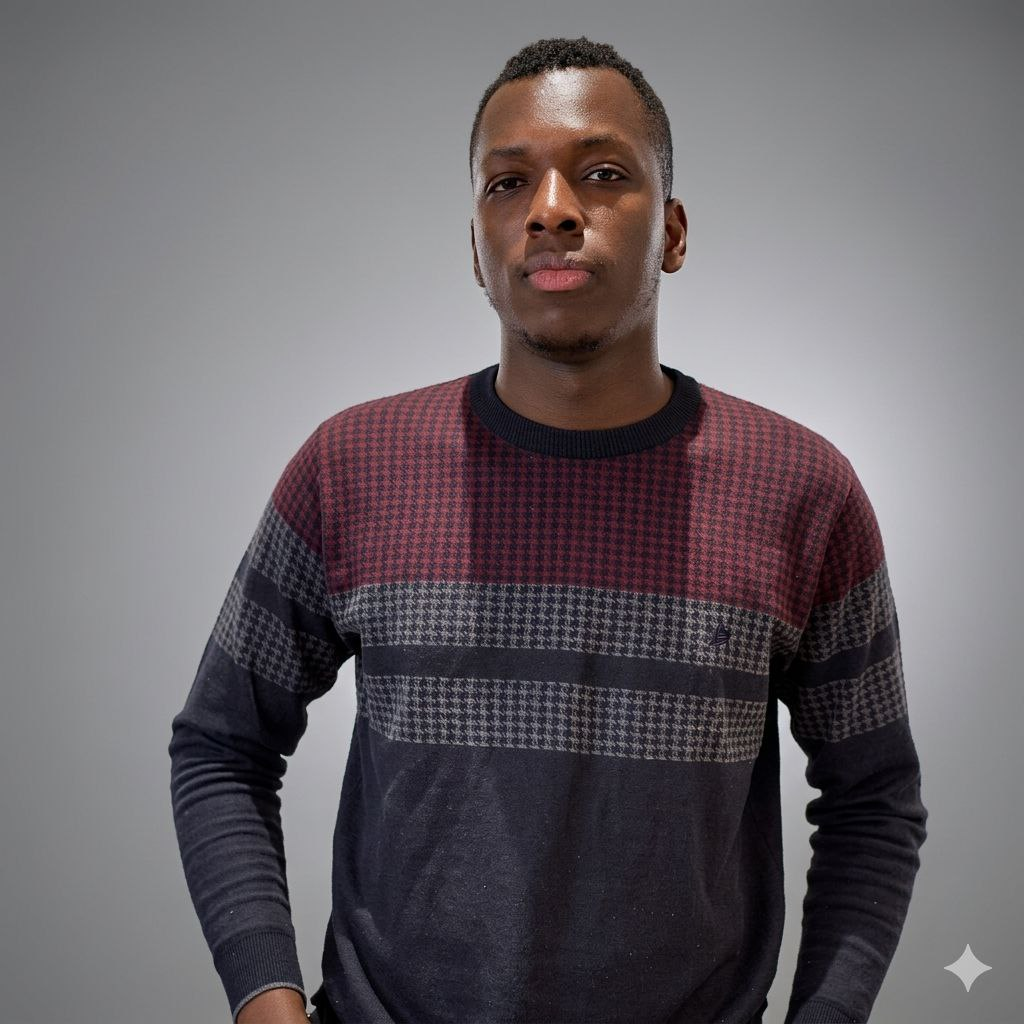
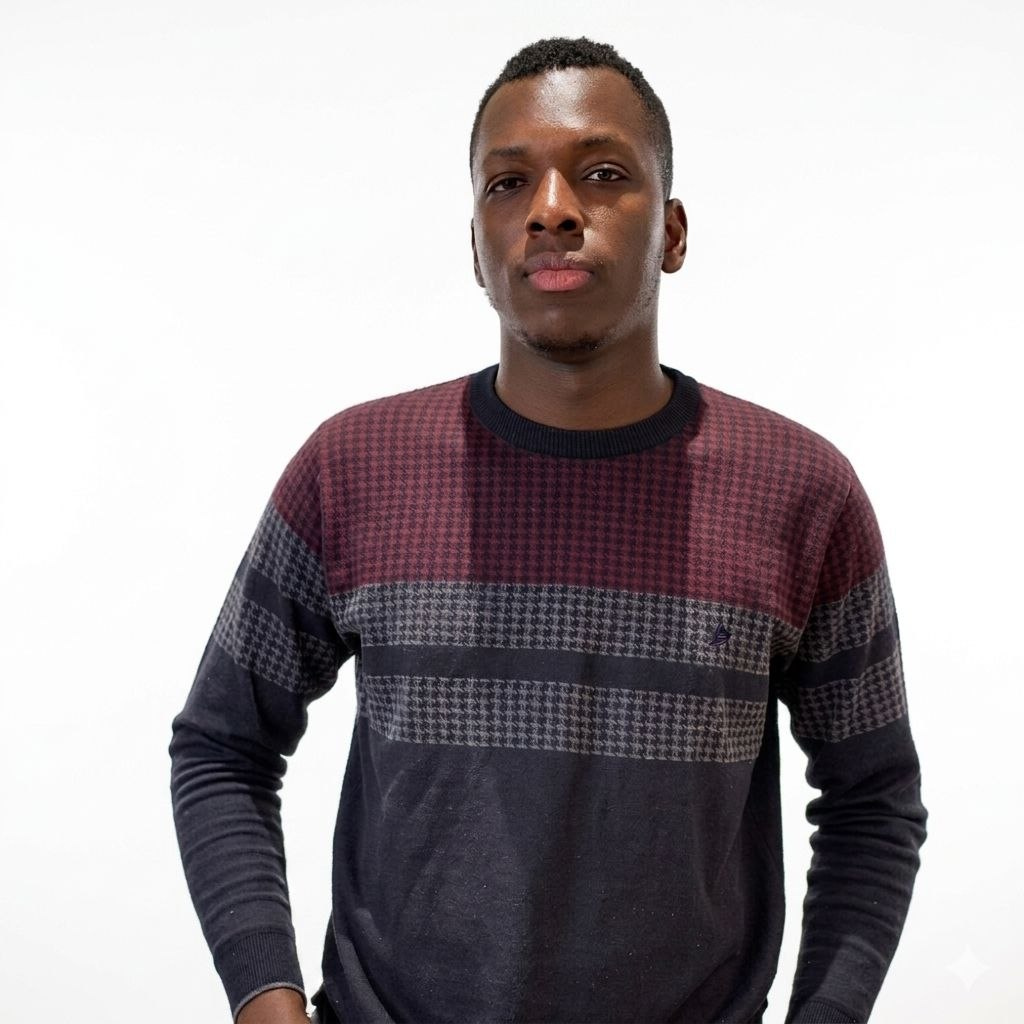
Update Hero: manifesto layout, scramble text, new photo, remove spinning circle

diff --git a/components/sections/Hero.tsx b/components/sections/Hero.tsx
@@ -2,6 +2,81 @@
 
 import { motion } from "framer-motion";
 import Image from "next/image";
+import { useEffect, useRef, useState } from "react";
+
+/* ─── Scramble Text ─── */
+const CHARS = "ABCDEFGHIJKLMNOPQRSTUVWXYZ0123456789@#$%&";
+
+function ScrambleText({
+  text,
+  delay = 0,
+  className = "",
+  style = {},
+}: {
+  text: string;
+  delay?: number;
+  className?: string;
+  style?: React.CSSProperties;
+}) {
+  const [display, setDisplay] = useState(() => text.split("").map(() => " "));
+  const resolvedRef = useRef(0);
+  const frameRef = useRef<ReturnType<typeof setTimeout> | null>(null);
+
+  useEffect(() => {
+    let started = false;
+    const startTimeout = setTimeout(() => {
+      started = true;
+      let tick = 0;
+      const totalChars = text.length;
+      const ticksPerChar = 6;
+
+      const run = () => {
+        tick++;
+        const resolved = Math.floor(tick / ticksPerChar);
+        resolvedRef.current = resolved;
+
+        setDisplay(
+          text.split("").map((char, i) => {
+            if (char === " ") return " ";
+            if (i < resolved) return char;
+            return CHARS[Math.floor(Math.random() * CHARS.length)];
+          })
+        );
+
+        if (resolved < totalChars) {
+          frameRef.current = setTimeout(run, 40);
+        } else {
+          setDisplay(text.split(""));
+        }
+      };
+
+      run();
+    }, delay * 1000);
+
+    return () => {
+      clearTimeout(startTimeout);
+      if (frameRef.current) clearTimeout(frameRef.current);
+    };
+  }, [text, delay]);
+
+  return (
+    <span className={className} style={style}>
+      {display.map((char, i) => (
+        <span
+          key={i}
+          style={{
+            display: "inline-block",
+            whiteSpace: char === " " ? "pre" : "normal",
+            color: i < resolvedRef.current ? undefined : "rgba(26,26,26,0.35)",
+            transition: "color 0.1s",
+          }}
+        >
+          {char === " " ? "\u00A0" : char}
+        </span>
+      ))}
+    </span>
+  );
+}
 
 /* ─── Letter-by-Letter Animator ─── */
 function AdLetters({
@@ -63,38 +138,19 @@ function SpinningCircleText() {
 /* ─── Styled Photo ─── */
 function StyledPhoto() {
   return (
-    <div className="relative shrink-0" style={{ width: "clamp(260px, 38vw, 480px)" }}>
-
-      {/* Frame layer 1 — rotated back-left */}
-      <div style={{
-        position: "absolute",
-        inset: 0,
-        transform: "rotate(-4deg) translate(-10px, 10px)",
-        border: "2px solid rgba(26,26,26,0.18)",
-        borderRadius: "6px",
-        zIndex: 0,
-      }} />
-
-      {/* Frame layer 2 — rotated back-right */}
-      <div style={{
-        position: "absolute",
-        inset: 0,
-        transform: "rotate(2.5deg) translate(8px, 6px)",
-        border: "2px solid rgba(26,26,26,0.10)",
-        borderRadius: "6px",
-        zIndex: 0,
-      }} />
-
-      {/* Photo — front, hard border */}
+    <motion.div
+      className="relative shrink-0 cursor-pointer"
+      style={{ width: "clamp(260px, 38vw, 480px)" }}
+      whileHover={{ scale: 1.04, y: -6 }}
+      transition={{ duration: 0.45, ease: [0.22, 1, 0.36, 1] }}
+    >
       <div style={{
         position: "relative",
-        zIndex: 1,
-        border: "2px solid #1a1a1a",
-        borderRadius: "6px",
-        overflow: "hidden",
         width: "100%",
         height: "clamp(300px, 44vw, 560px)",
-        boxShadow: "8px 8px 0px #1a1a1a",
+        border: "1px solid rgba(26,26,26,0.12)",
+        borderRadius: "40% 60% 55% 45% / 50% 45% 55% 50%",
+        overflow: "hidden",
       }}>
         <Image
           src="/thierry3.jpg"
@@ -103,43 +159,8 @@ function StyledPhoto() {
           className="object-cover object-center"
           priority
         />
-        {/* Subtle gradient overlay bottom */}
-        <div
-          aria-hidden
-          style={{
-            position: "absolute",
-            inset: 0,
-            background: "linear-gradient(to top, rgba(26,26,26,0.18) 0%, transparent 40%)",
-            pointerEvents: "none",
-          }}
-        />
       </div>
-
-      {/* Corner accent — top-left */}
-      <div style={{
-        position: "absolute",
-        top: -8,
-        left: -8,
-        width: 28,
-        height: 28,
-        borderTop: "3px solid #1a1a1a",
-        borderLeft: "3px solid #1a1a1a",
-        zIndex: 2,
-      }} />
-
-      {/* Corner accent — bottom-right */}
-      <div style={{
-        position: "absolute",
-        bottom: -16,
-        right: -16,
-        width: 28,
-        height: 28,
-        borderBottom: "3px solid #1a1a1a",
-        borderRight: "3px solid #1a1a1a",
-        zIndex: 2,
-      }} />
-
-    </div>
+    </motion.div>
   );
 }
 
@@ -194,10 +215,6 @@ export function Hero() {
         >
           <StyledPhoto />
 
-          {/* Spinning text — anchored bottom-right of photo */}
-          <div className="absolute -right-16 md:-right-20 bottom-8">
-            <SpinningCircleText />
-          </div>
         </motion.div>
 
         {/* ── Ad Banner lettre par lettre ── */}
@@ -239,49 +256,121 @@ export function Hero() {
 
       </div>
 
-      {/* ── Marquee pub ── */}
-      <div
-        className="w-full select-none mt-8 overflow-hidden"
-        style={{ background: "#1a1a1a" }}
-      >
-        <div
-          className="flex animate-marquee-fast whitespace-nowrap items-center"
-          style={{ paddingTop: "18px", paddingBottom: "18px" }}
-        >
-          {[0, 1].map((r) => (
-            <span key={r} className="inline-flex items-center shrink-0">
-              {[
-                { t: "CREATIVITY",  dim: false },
-                { t: "✦",           dim: true  },
-                { t: "MARKETING",   dim: false },
-                { t: "✦",           dim: true  },
-                { t: "VISION",      dim: false },
-                { t: "✦",           dim: true  },
-                { t: "I AM HERE TO SHOW YOU WHAT YOU CANNOT THINK", dim: false },
-                { t: "✦",           dim: true  },
-                { t: "THE FUTURE",  dim: false },
-                { t: "✦",           dim: true  },
-              ].map(({ t, dim }, i) => (
-                <span
-                  key={i}
-                  className="inline-block"
+      {/* ── Manifeste ── */}
+      <div className="w-full mt-6 select-none">
+        <div className="w-full max-w-5xl mx-auto px-6">
+
+          {[
+            {
+              num: "01",
+              main: "MARKETING & CREATIVITY",
+              sub: "ARE THE FUTURE.",
+              delay: 0.9,
+            },
+            {
+              num: "02",
+              main: "I'M HERE TO SHOW YOU",
+              sub: "WHAT YOU CANNOT THINK.",
+              delay: 1.3,
+            },
+          ].map(({ num, main, sub, delay }) => (
+            <motion.div
+              key={num}
+              initial={{ opacity: 0 }}
+              animate={{ opacity: 1 }}
+              transition={{ duration: 0.5, delay }}
+              className="group relative"
+              style={{ borderTop: "1px solid rgba(26,26,26,0.12)" }}
+            >
+              {/* Ligne qui s'étend au hover */}
+              <motion.div
+                style={{
+                  position: "absolute",
+                  top: -1,
+                  left: 0,
+                  height: "2px",
+                  background: "#1a1a1a",
+                  width: "0%",
+                }}
+                whileInView={{ width: "100%" }}
+                viewport={{ once: true }}
+                transition={{ duration: 0.7, delay: delay + 0.1, ease: [0.22, 1, 0.36, 1] }}
+              />
+
+              <div
+                className="flex items-end justify-between gap-6 py-7 cursor-default"
+                style={{ paddingLeft: "0", paddingRight: "0" }}
+              >
+                {/* Numéro */}
+                <motion.span
+                  initial={{ opacity: 0, y: 10 }}
+                  animate={{ opacity: 1, y: 0 }}
+                  transition={{ duration: 0.5, delay: delay + 0.2 }}
                   style={{
-                    fontSize: t === "✦" ? "10px" : t.length > 20 ? "clamp(0.85rem, 1.8vw, 1.1rem)" : "clamp(1rem, 2vw, 1.35rem)",
-                    fontWeight: 800,
+                    fontSize: "0.7rem",
+                    fontWeight: 700,
+                    letterSpacing: "0.25em",
+                    color: "#bbbbbb",
                     fontFamily: "var(--font-jakarta), sans-serif",
-                    letterSpacing: t === "✦" ? "0" : "0.18em",
-                    color: t === "✦" ? "rgba(245,245,240,0.22)" : dim ? "rgba(245,245,240,0.38)" : "#f5f5f0",
-                    paddingLeft: t === "✦" ? "22px" : "28px",
-                    paddingRight: t === "✦" ? "22px" : "0",
+                    minWidth: "28px",
+                    paddingBottom: "6px",
+                    transition: "color 0.3s",
+                  }}
+                  className="group-hover:text-[#1a1a1a]"
+                >
+                  {num}
+                </motion.span>
+
+                {/* Texte principal */}
+                <div className="flex-1 overflow-hidden">
+                  <motion.p
+                    initial={{ y: "100%" }}
+                    animate={{ y: "0%" }}
+                    transition={{ duration: 0.65, delay: delay + 0.15, ease: [0.22, 1, 0.36, 1] }}
+                    style={{
+                      fontSize: "clamp(1.9rem, 4.8vw, 3.8rem)",
+                      fontWeight: 900,
+                      lineHeight: 1.0,
+                      color: "#1a1a1a",
+                      fontFamily: "var(--font-heading), sans-serif",
+                      letterSpacing: "-0.025em",
+                    }}
+                  >
+                    {main}
+                  </motion.p>
+                </div>
+
+                {/* Sous-texte aligné à droite */}
+                <motion.p
+                  initial={{ opacity: 0, x: 20 }}
+                  animate={{ opacity: 1, x: 0 }}
+                  transition={{ duration: 0.6, delay: delay + 0.35, ease: [0.22, 1, 0.36, 1] }}
+                  style={{
+                    fontSize: "clamp(0.65rem, 1vw, 0.85rem)",
+                    fontWeight: 700,
+                    letterSpacing: "0.3em",
+                    color: "#aaaaaa",
                     textTransform: "uppercase",
-                    lineHeight: 1,
+                    fontFamily: "var(--font-jakarta), sans-serif",
+                    textAlign: "right",
+                    minWidth: "clamp(100px, 18vw, 200px)",
+                    paddingBottom: "6px",
                   }}
                 >
-                  {t}
-                </span>
-              ))}
-            </span>
+                  {sub}
+                </motion.p>
+              </div>
+            </motion.div>
           ))}
+
+          {/* Ligne de fermeture */}
+          <motion.div
+            style={{ borderTop: "1px solid rgba(26,26,26,0.12)" }}
+            initial={{ opacity: 0 }}
+            animate={{ opacity: 1 }}
+            transition={{ delay: 2.0 }}
+          />
+
         </div>
       </div>
 
